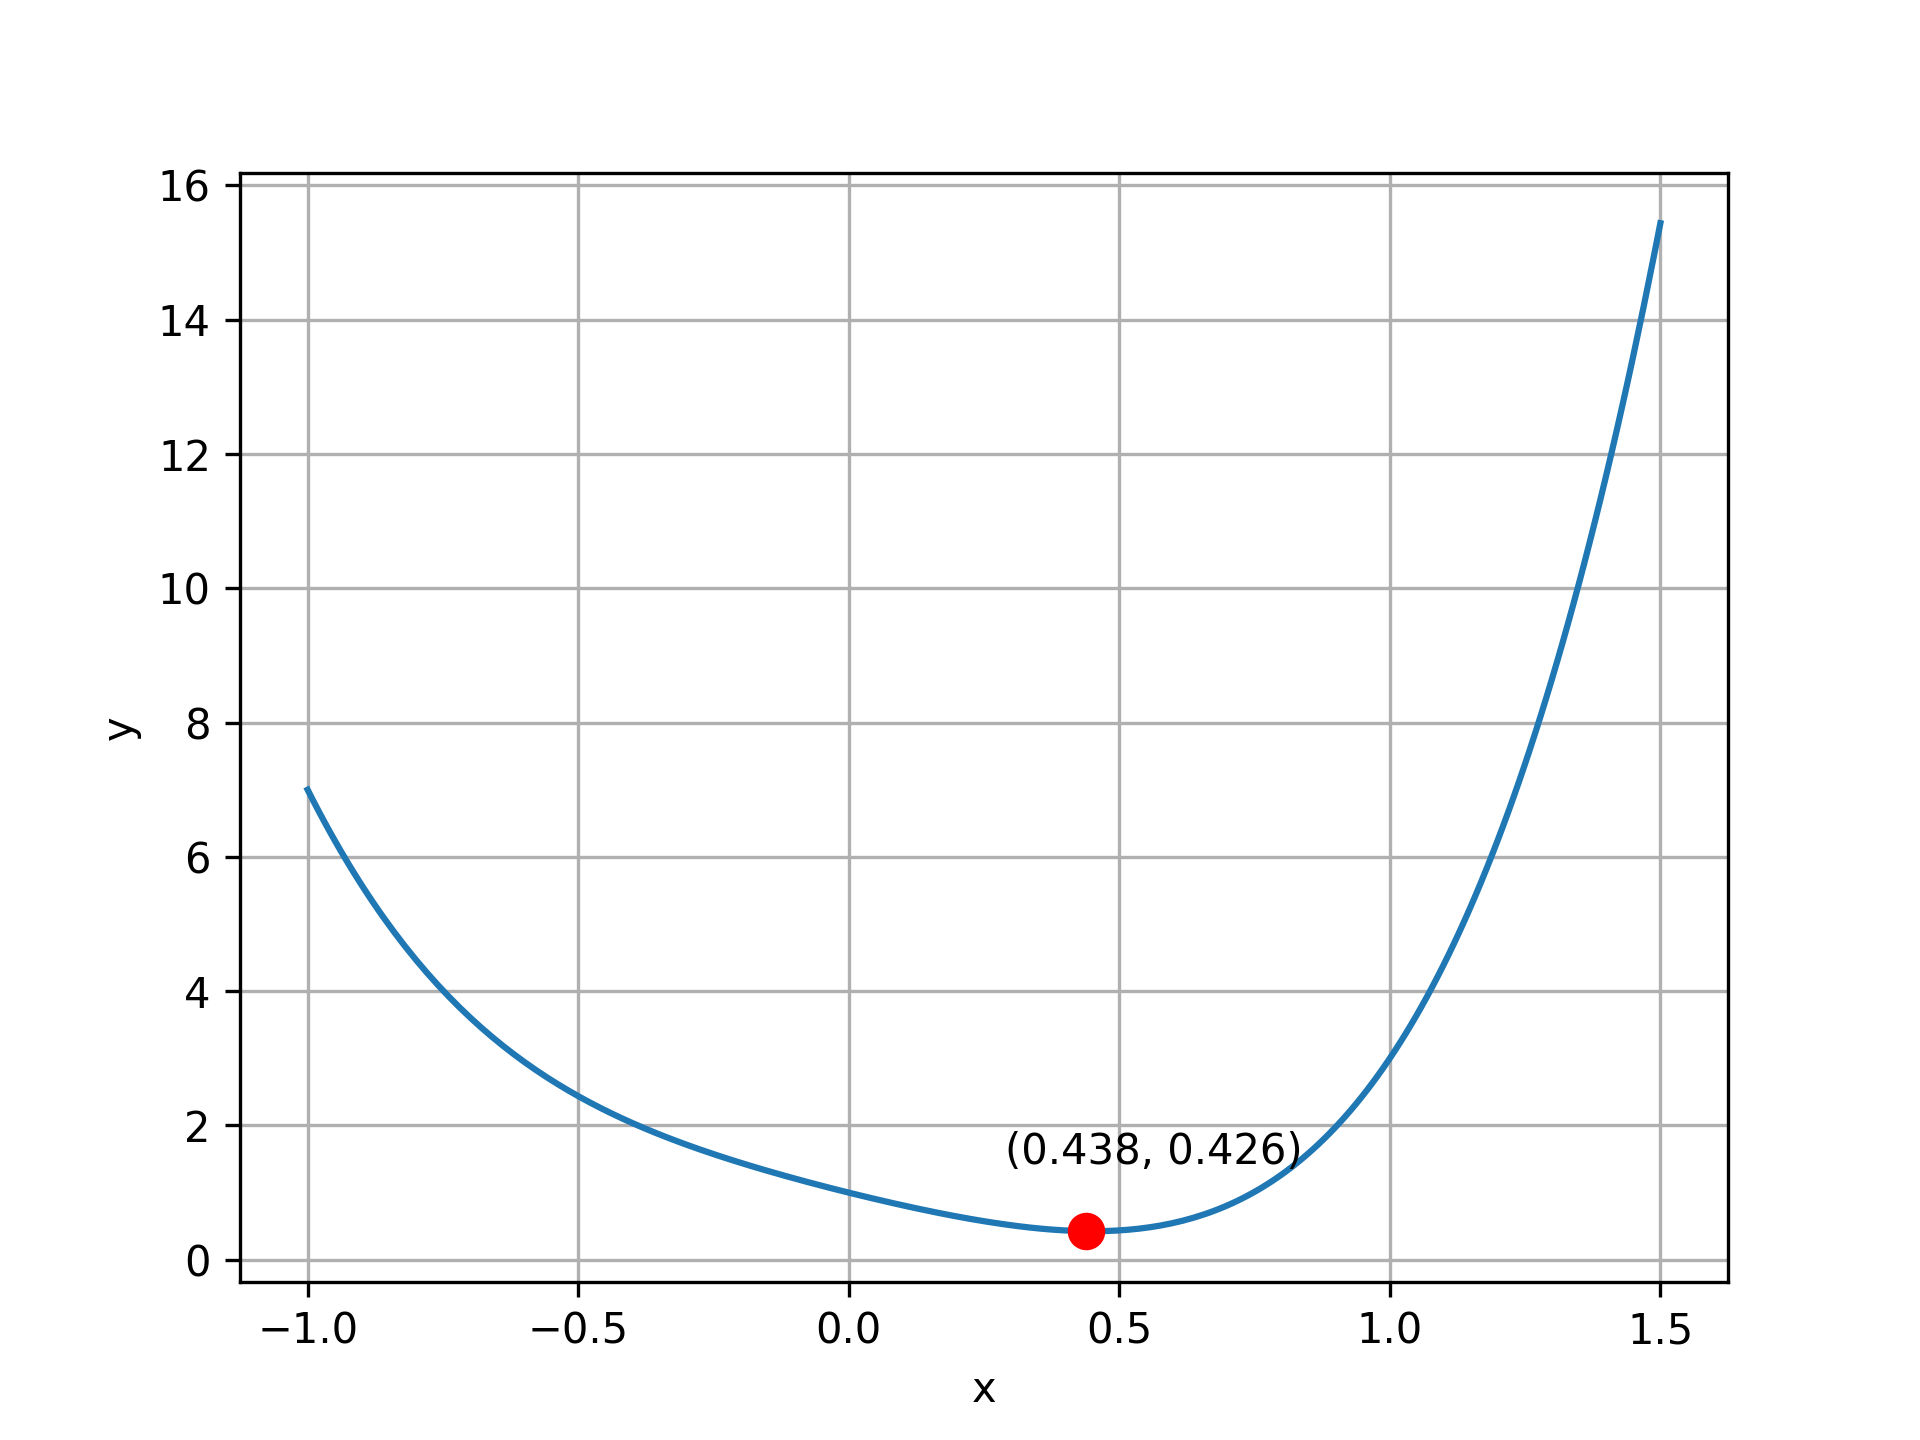
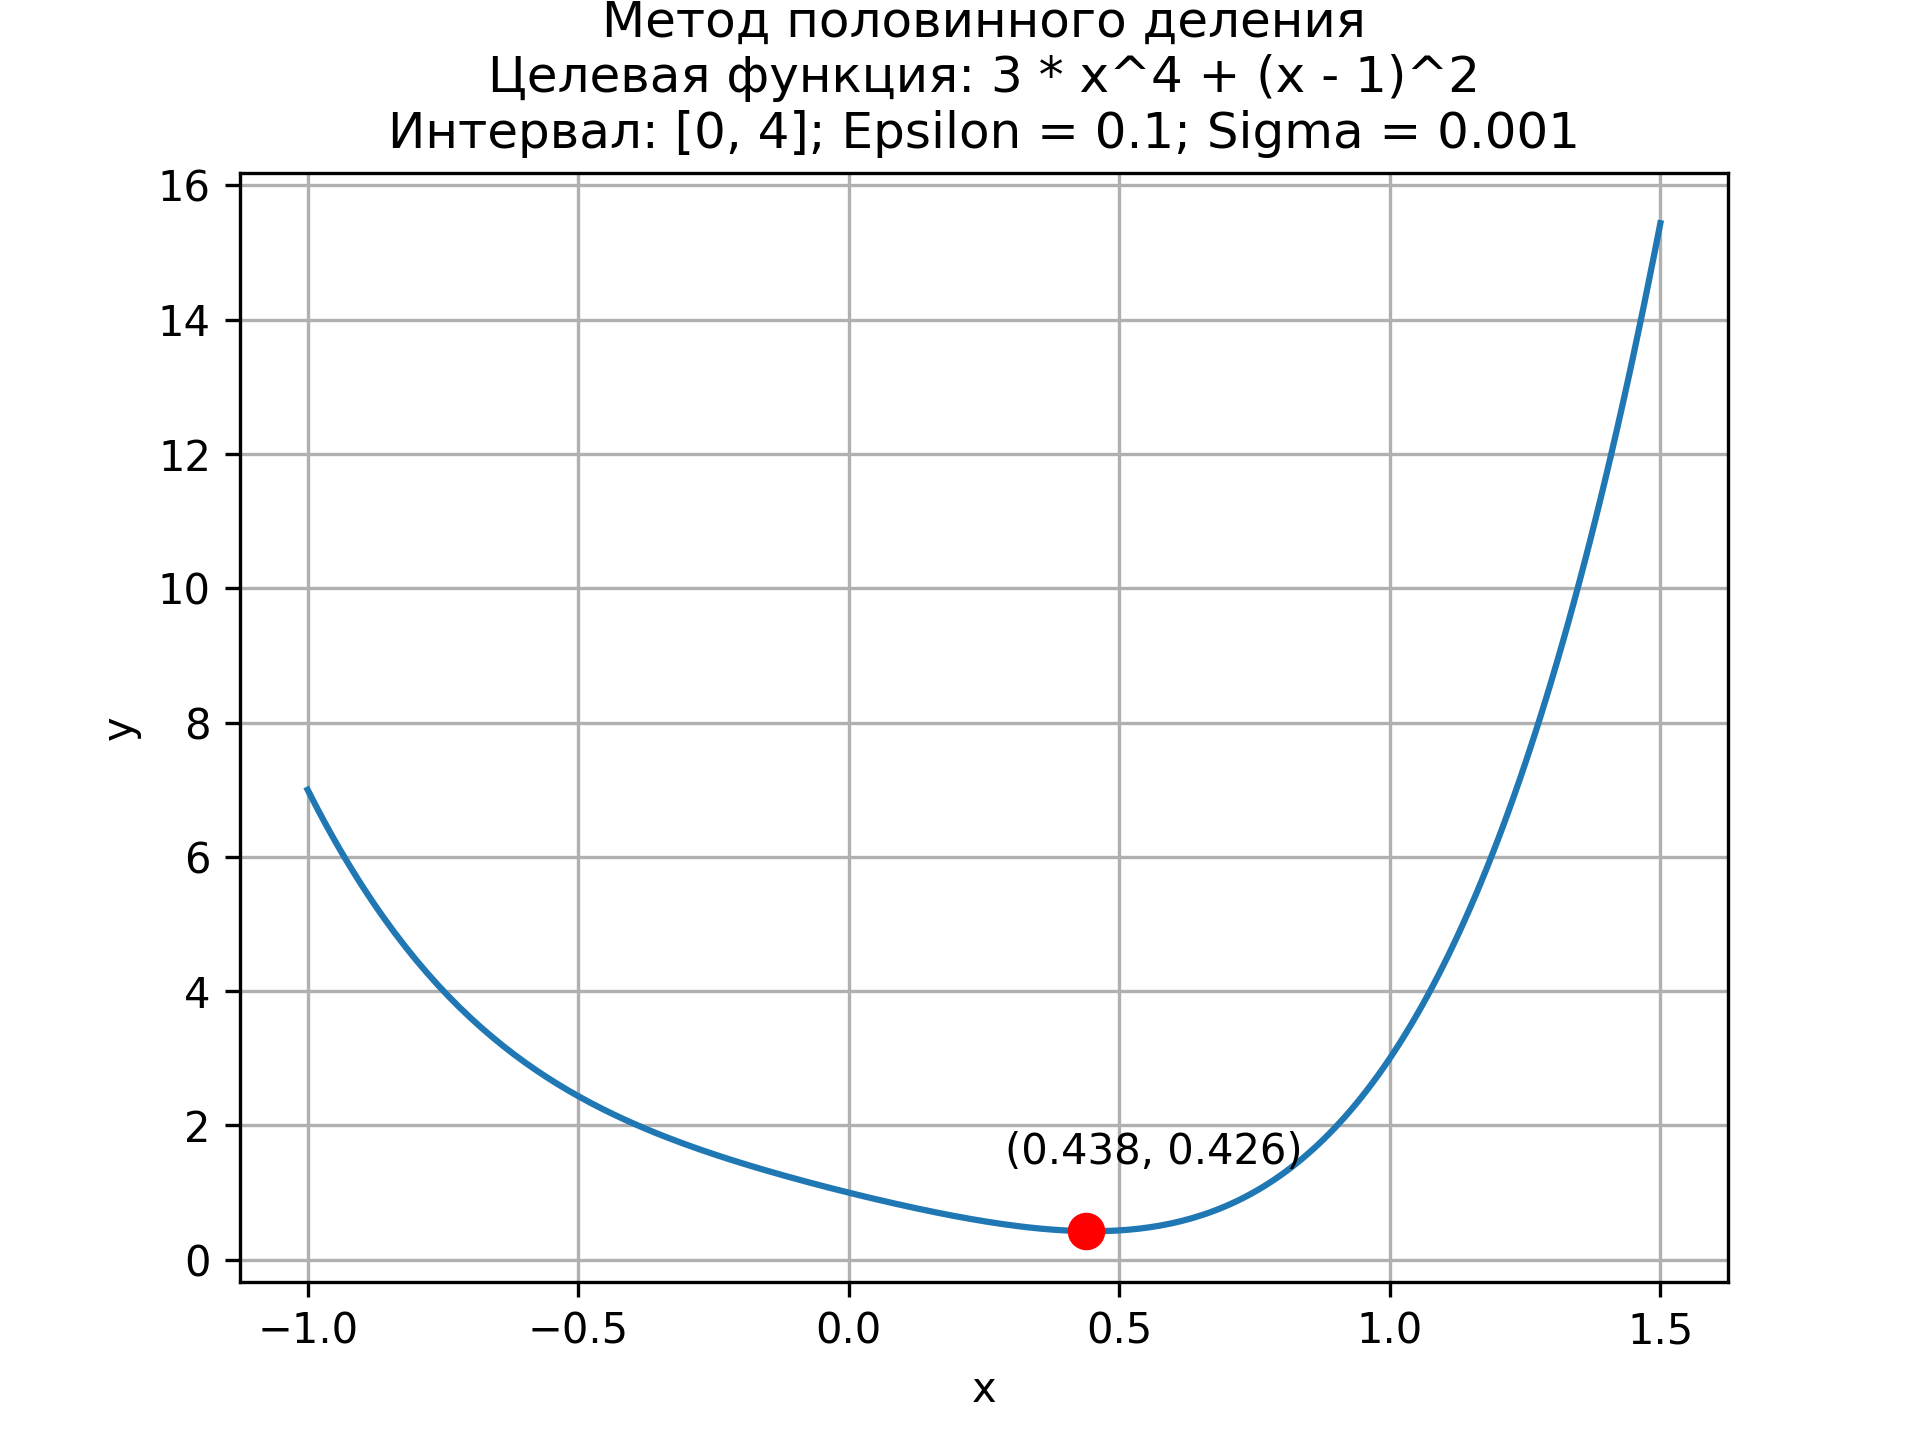
plot builder

Changed region(s): [[0.1875, 0.0, 0.8125, 0.125]]

diff --git a/build_plot/build_plot.py b/build_plot/build_plot.py
@@ -37,6 +37,13 @@ class PlotBuilder:
         self._plt.plot(x_array, y_array)
         self._plt.xlabel('x')
         self._plt.ylabel('y')
+        self._plt.title(
+            method.__doc__ + '\n' +
+            f.__doc__ + '\n' +
+            'Интервал: [{}, {}]; '.format(round(a, self.round_number), round(b, self.round_number)) +
+            'Epsilon = {}; '.format(epsilon) +
+            'Sigma = {}'.format(sigma)
+        )
         plt.plot(x_0, f_x0, marker='o', color='red', ms = 8)
         plt.text(x_0 - 0.15, f_x0 + 1, s='(' + str(round(x_0, self.round_number)) + ', ' + str(round(f_x0, self.round_number)) + ')')
         self._plt.savefig(im_path, dpi = self._dpi)

diff --git a/half_divide/half_divide.py b/half_divide/half_divide.py
@@ -12,12 +12,12 @@ ROUND_NUMBER = 3 #
 
 
 def f(x) -> float:
-    """Целевая функция."""
+    """Целевая функция: 3 * x^4 + (x - 1)^2"""
     return 3 * x ** 4 + (x - 1) ** 2
 
 
 def half_divide(a: float, b: float, sigma: float, epsilon: float, round_number=3) -> Tuple[float, float]:
-    """Метод половинного деления."""
+    """Метод половинного деления"""
     logging.info('Запущен метод половинного сечения. '
                  'Интервал: [{}, {}]; sigma = {}; epsilon = {}'.format(a, b, sigma, epsilon))
     delta = b - a
